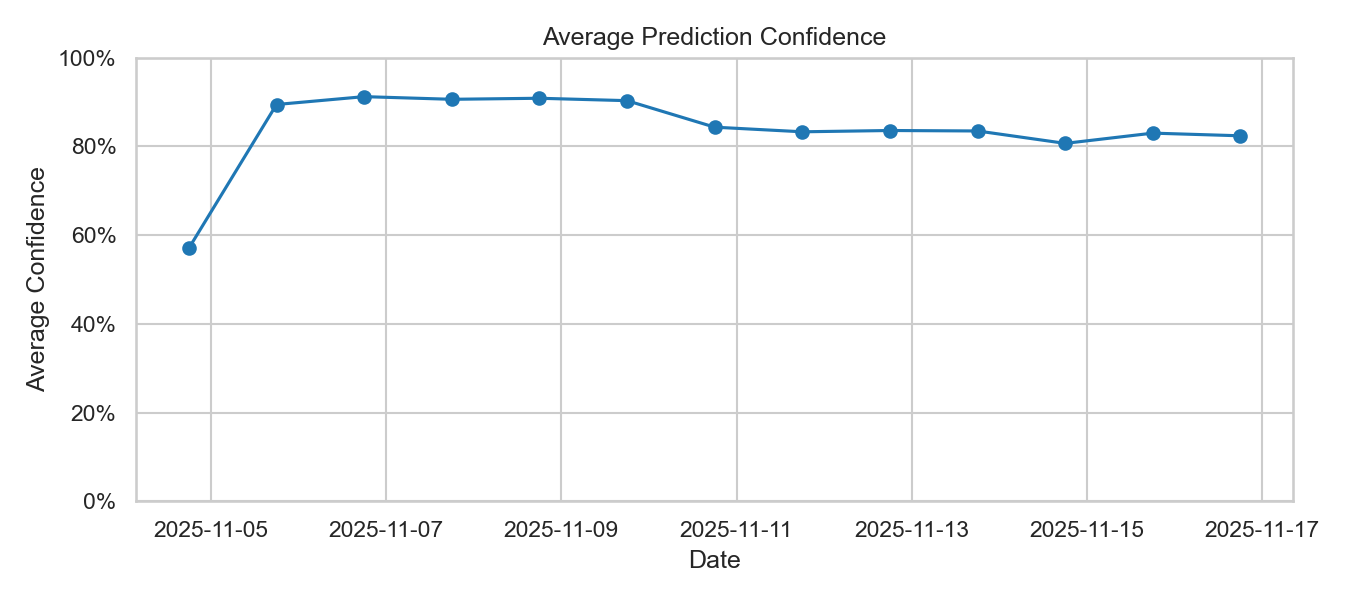
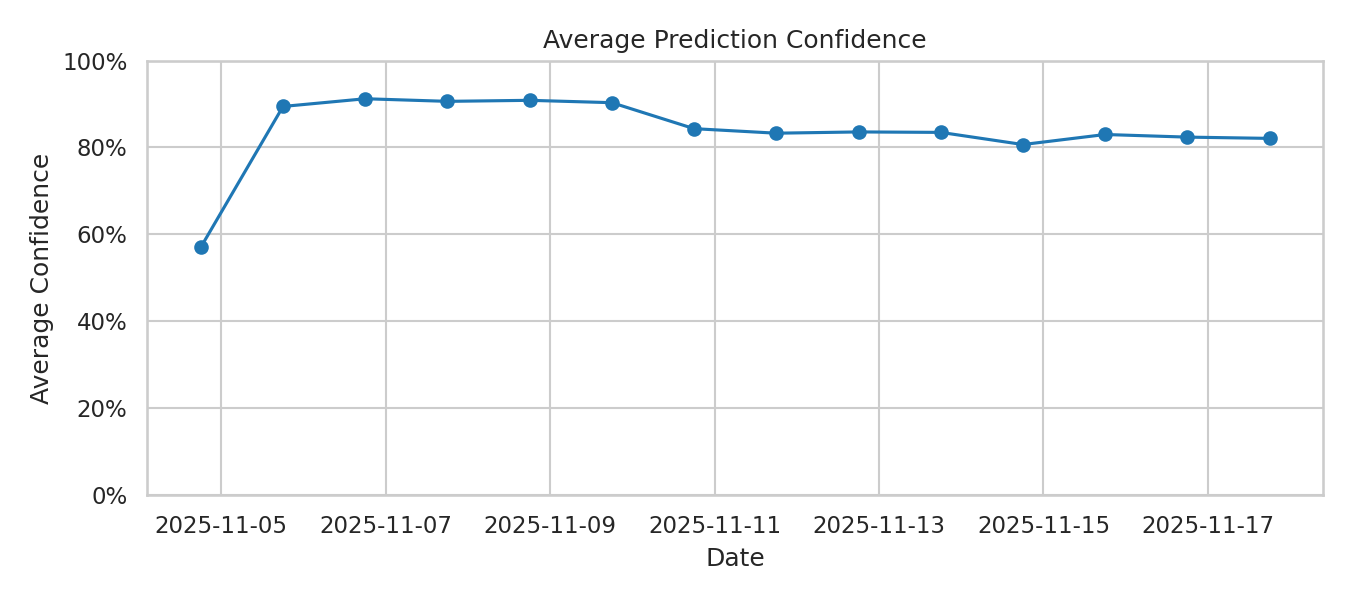
Fix performance.md not being updated during daily runs and add improvements

diff --git a/scripts/generate_performance_report.py b/scripts/generate_performance_report.py
@@ -146,9 +146,18 @@ def main() -> None:
         total_correct = int(accuracy_df["correct_predictions"].sum())
         overall_accuracy = total_correct / total_games if total_games else 0.0
         latest_row = accuracy_df.tail(1).iloc[0]
+        
+        # Calculate 7-day rolling accuracy if available
+        rolling_7day_acc = latest_row.get('rolling_accuracy', None)
+        if pd.notna(rolling_7day_acc):
+            rolling_7day_str = f"{rolling_7day_acc:.2%}"
+        else:
+            rolling_7day_str = "N/A"
+        
         lines.append("## Overview")
         lines.append("")
         lines.append(f"- **Overall Accuracy**: {overall_accuracy:.2%} ({total_correct}/{total_games})")
+        lines.append(f"- **7-Day Rolling Accuracy**: {rolling_7day_str}")
         lines.append(f"- **Most Recent Day**: {latest_row['date'].strftime('%Y-%m-%d')} — accuracy {latest_row['accuracy']:.2%} on {int(latest_row['games_completed'])} games")
         lines.append(f"- **Average Confidence (latest day)**: {latest_row.get('avg_confidence', float('nan')):.2%}")
         lines.append("")
@@ -187,6 +196,35 @@ def main() -> None:
     lines.append("## Drift Snapshot")
     lines.append("")
     lines.append(_drift_snapshot(drift_df))
+    lines.append("")
+    
+    # Add performance trends section if we have enough data
+    if not accuracy_df.empty and len(accuracy_df) >= 7:
+        lines.append("## Performance Trends")
+        lines.append("")
+        # Calculate recent vs older performance
+        recent_7 = accuracy_df.tail(7)
+        recent_total = int(recent_7["games_completed"].sum())
+        recent_correct = int(recent_7["correct_predictions"].sum())
+        recent_accuracy = recent_correct / recent_total if recent_total > 0 else 0.0
+        
+        lines.append(f"- **Last 7 Days**: {recent_accuracy:.2%} ({recent_correct}/{recent_total} games)")
+        
+        # Compare to overall
+        if recent_accuracy > overall_accuracy:
+            diff = recent_accuracy - overall_accuracy
+            lines.append(f"- **Trend**: ⬆ Recent performance is {diff:.2%} above overall average")
+        elif recent_accuracy < overall_accuracy:
+            diff = overall_accuracy - recent_accuracy
+            lines.append(f"- **Trend**: ⬇ Recent performance is {diff:.2%} below overall average")
+        else:
+            lines.append(f"- **Trend**: ➡ Recent performance matches overall average")
+        lines.append("")
+    
+    # Add link back to main README
+    lines.append("---")
+    lines.append("")
+    lines.append("📈 [Back to Main README](README.md) | 🎯 [View Latest Predictions](predictions.md)")
     lines.append("")
 
     REPORT_PATH.write_text("\n".join(lines), encoding="utf-8")

diff --git a/performance.md b/performance.md
@@ -1,12 +1,13 @@
 # 📊 Model Performance Dashboard
 
-_Generated: 2025-11-17 03:29 CST_
+_Generated: 2025-11-19 16:13 CST_
 
 ## Overview
 
-- **Overall Accuracy**: 80.00% (284/355)
-- **Most Recent Day**: 2025-11-16 — accuracy 77.27% on 22 games
-- **Average Confidence (latest day)**: 82.38%
+- **Overall Accuracy**: 80.11% (298/372)
+- **7-Day Rolling Accuracy**: 75.86%
+- **Most Recent Day**: 2025-11-17 — accuracy 82.35% on 17 games
+- **Average Confidence (latest day)**: 82.09%
 
 ## Daily Accuracy
 
@@ -20,7 +21,6 @@ _Generated: 2025-11-17 03:29 CST_
 
 | Date | Games | Correct | Accuracy | Avg Confidence |
 |------|-------|---------|----------|----------------|
-| 2025-11-07 | 36 | 29 | 80.56% | 90.61% |
 | 2025-11-08 | 36 | 29 | 80.56% | 90.84% |
 | 2025-11-09 | 17 | 14 | 82.35% | 90.30% |
 | 2025-11-10 | 20 | 17 | 85.00% | 84.33% |
@@ -30,7 +30,17 @@ _Generated: 2025-11-17 03:29 CST_
 | 2025-11-14 | 34 | 25 | 73.53% | 80.67% |
 | 2025-11-15 | 49 | 33 | 67.35% | 82.98% |
 | 2025-11-16 | 22 | 17 | 77.27% | 82.38% |
+| 2025-11-17 | 17 | 14 | 82.35% | 82.09% |
 
 ## Drift Snapshot
 
 Latest drift snapshot (Season 2025-26, 774 games): accuracy 0.753, logloss 0.580, brier 0.195.
+
+## Performance Trends
+
+- **Last 7 Days**: 75.86% (154/203 games)
+- **Trend**: ⬇ Recent performance is 4.25% below overall average
+
+---
+
+📈 [Back to Main README](README.md) | 🎯 [View Latest Predictions](predictions.md)
